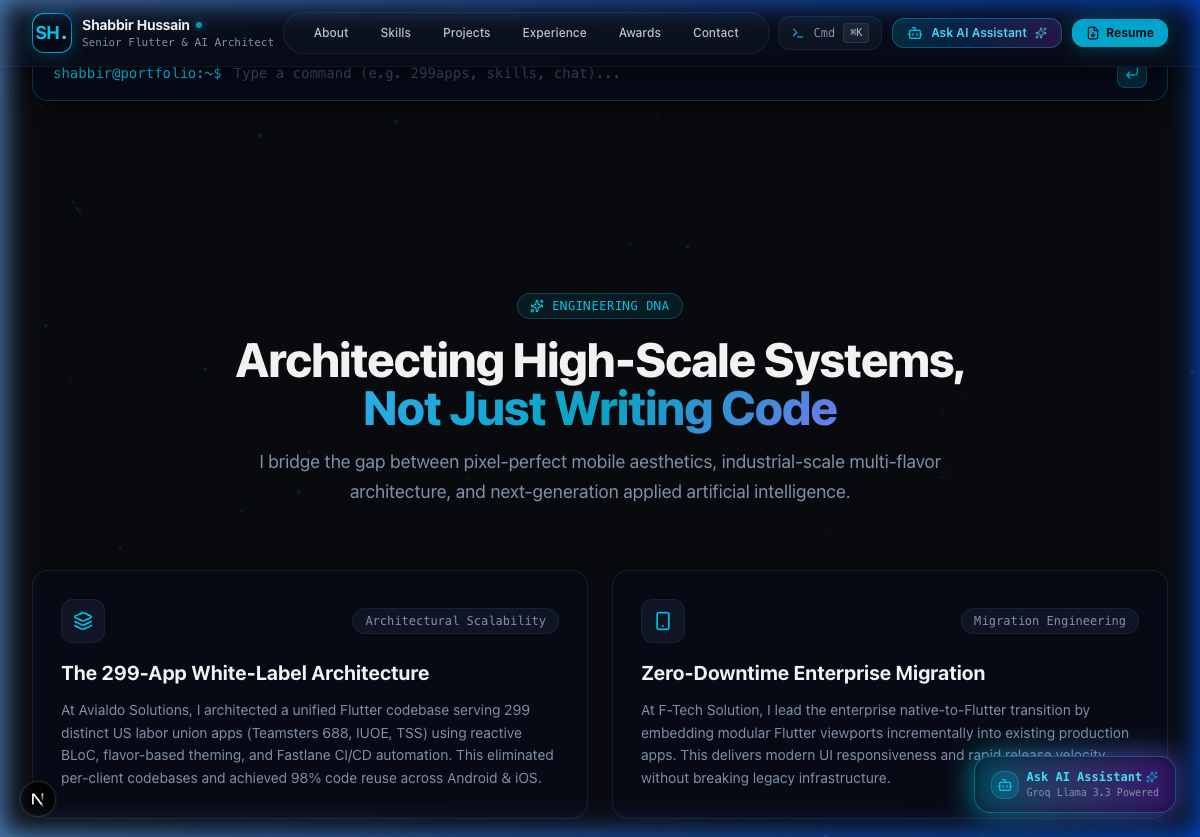
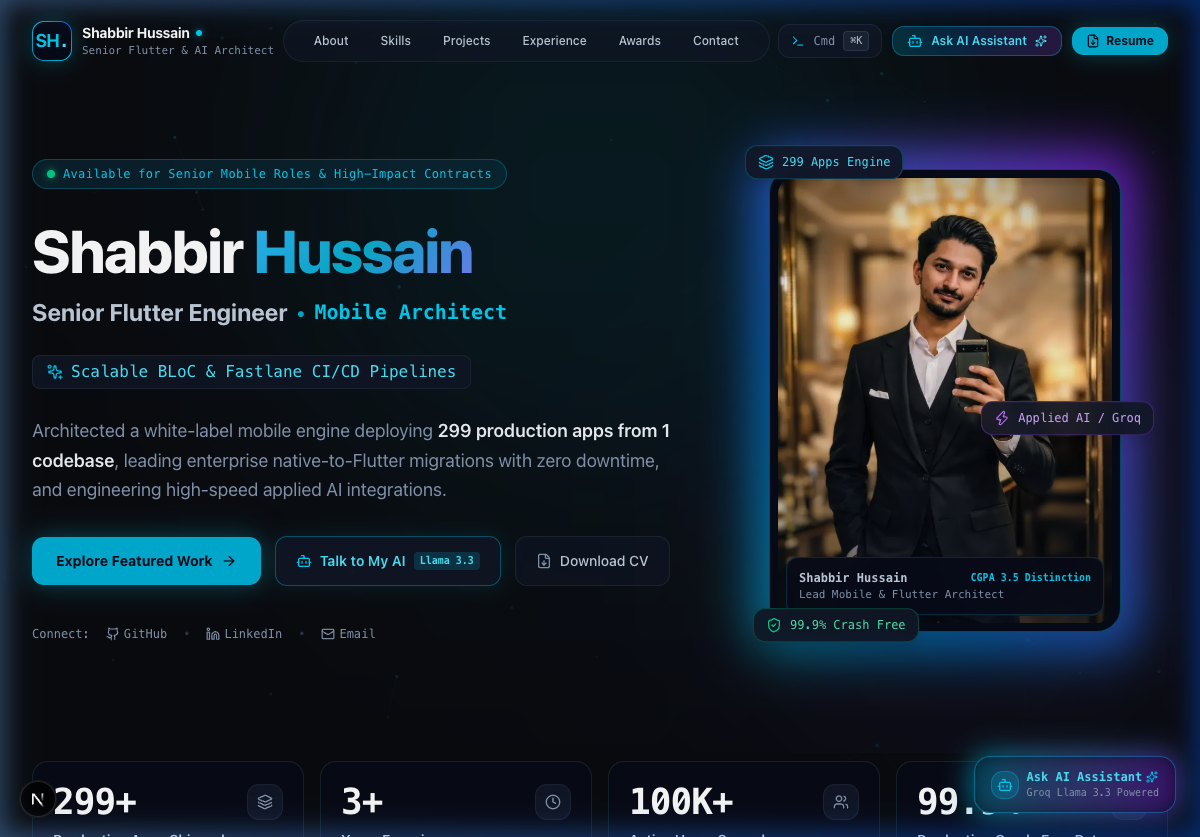
fix: prevent interactive terminal from scrolling page into view on mount

diff --git a/src/components/sections/InteractiveTerminal.tsx b/src/components/sections/InteractiveTerminal.tsx
@@ -21,7 +21,9 @@ export function InteractiveTerminal({ onOpenAI }: { onOpenAI: () => void }) {
   const terminalEndRef = useRef<HTMLDivElement | null>(null);
 
   useEffect(() => {
-    terminalEndRef.current?.scrollIntoView({ behavior: 'smooth' });
+    if (history.length > 1) {
+      terminalEndRef.current?.scrollIntoView({ behavior: 'smooth' });
+    }
   }, [history]);
 
   const executeCommand = (cmd: string) => {
